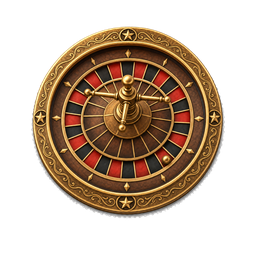
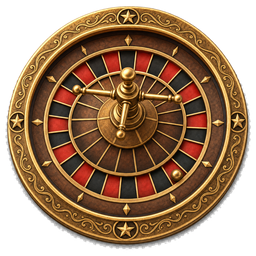
k

diff --git a/css/saloon.css b/css/saloon.css
@@ -450,15 +450,15 @@ html { scroll-padding-top: calc(var(--top-bar-h) + var(--top-header-h) + 12px); 
   filter: contrast(1.04) saturate(1.05);
 }
 @media (max-aspect-ratio: 1/1) {
+  /* Mobile: container con aspect ratio uguale all'asset (2480/3312),
+     niente min-height né max-height, full width senza taglio.
+     Backdrop sfocato riabilitato per riempire eventuali letterbox. */
   .vw-saloon-hero {
-    aspect-ratio: 768 / 1376;
-    max-height: calc(100svh - var(--top-bar-h) - var(--top-header-h));
-    min-height: 600px;
+    aspect-ratio: 2480 / 3312;
+    max-height: none;
+    min-height: 0;
   }
-  /* Mobile invariato rispetto a prima: cover a tutto schermo, niente
-     backdrop sfocato; ripristino la vignette gradiente originale. */
-  .vw-saloon-hero::before { display: none; }
-  .vw-saloon-hero__bg img { object-fit: cover; }
+  .vw-saloon-hero__bg img { object-fit: contain; }
   .vw-saloon-hero::after {
     content: '';
     position: absolute;
